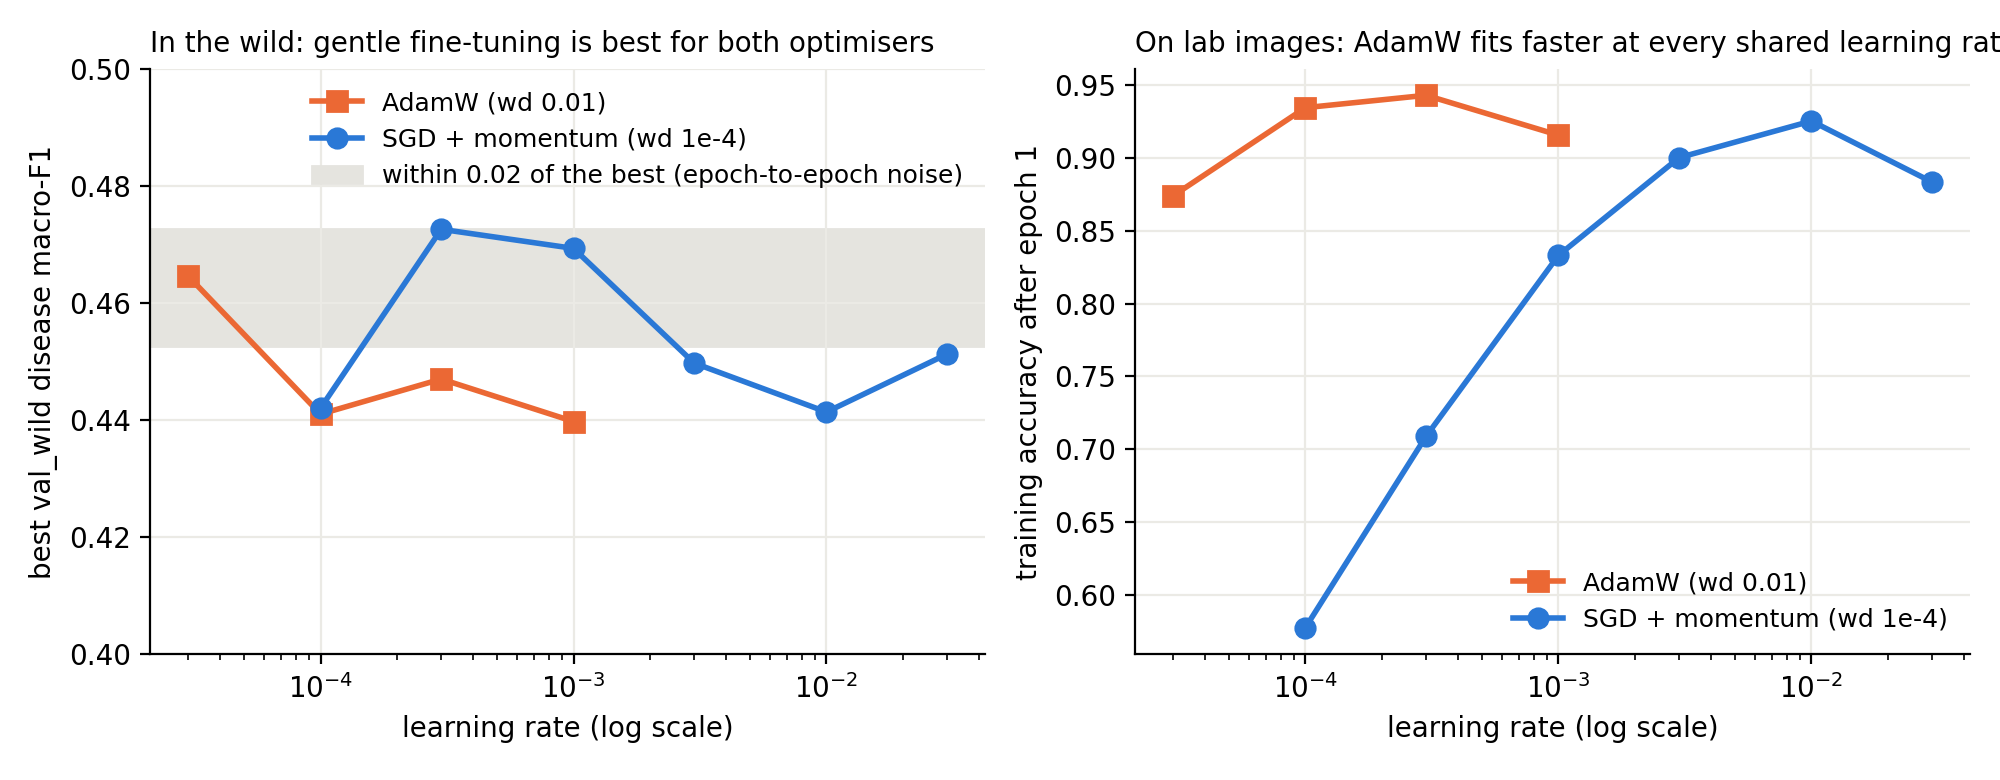
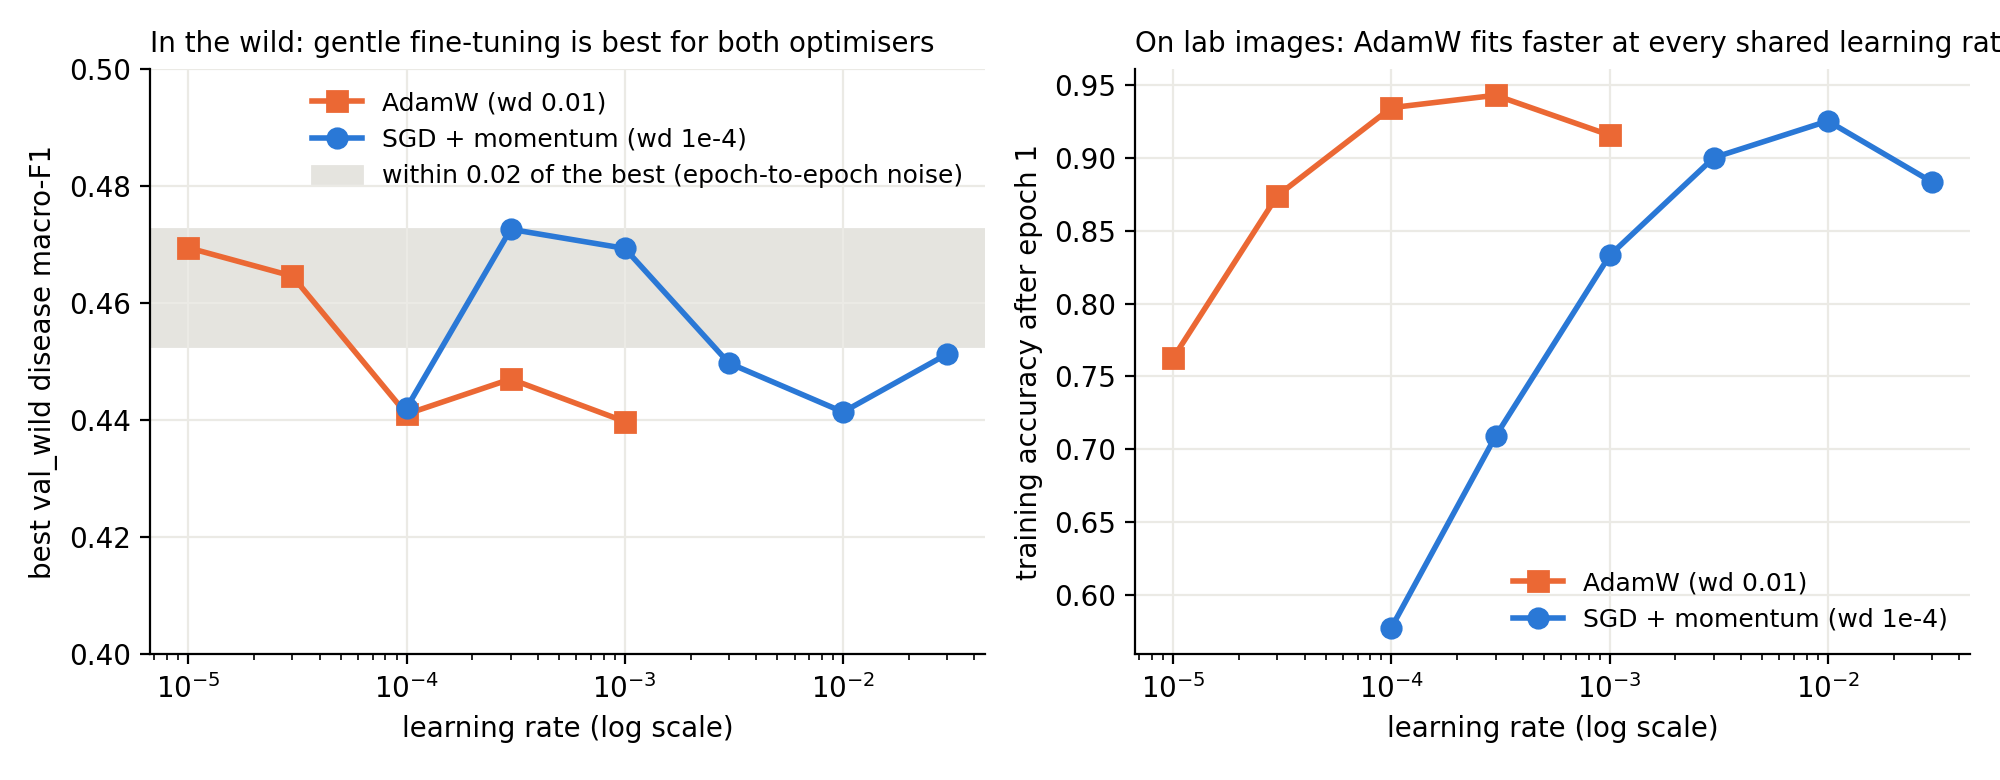
Experiment R14

diff --git a/experiment_log.md b/experiment_log.md
@@ -1,1 +1,1 @@
-<table><thead><tr><th scope="col" style="">run</th><th scope="col" style="">date</th><th scope="col" style="">model</th><th scope="col" style="">what changed</th><th scope="col" style="">key settings</th><th scope="col" style="">seed</th><th scope="col" style="">val_lab F1-16</th><th scope="col" style="">val_wild F1-16</th><th scope="col" style="">best epoch</th><th scope="col" style="">train time</th><th scope="col" style="">learned</th></tr></thead><tbody><tr><td>T0</td><td>25 Oct</td><td>R18 frozen</td><td>pipeline test</td><td>SGD lr 0.01, wd 1e-4, bs 64, no aug, 3 ep</td><td>42</td><td>0.922</td><td>0.356</td><td>–</td><td>~5 min</td><td>lab easy; wild barely above random (0.285): gap ≈ 0.57</td></tr><tr><td>R01</td><td>25 Oct</td><td>R18 frozen</td><td>initial ANN</td><td>SGD 0.01, wd 1e-4, bs 64, no aug, cosine, 15 ep / patience 5</td><td>42</td><td>0.923</td><td>0.359</td><td>3 of 8 (early stop)</td><td>~4 min</td><td>head-only saturates; lab improves, wild flat ≈ ±0.02 noise; gap 0.56</td></tr><tr><td>R02</td><td>25 Oct</td><td>ResNet-18, stem + stages 1–3 frozen (8,403,988 trainable)</td><td>unfroze stage 4 (vs R01: head only)</td><td>SGD lr 0.01 (cosine), wd 1e-4, bs 64, no aug, 15 ep / patience 5</td><td>42</td><td>0.979</td><td>0.403</td><td>10 of 15</td><td>~12.4 min</td><td>adapting the top stage helps wild (+0.04 over R01, about 2× the ±0.02 noise); train acc reached 1.000 by epoch 5</td></tr><tr><td>R03</td><td>25 Oct</td><td>ResNet-18, nothing frozen (11,186,772 trainable)</td><td>unfroze all layers (vs R02: stage 4 only)</td><td>SGD lr 0.01 (cosine), wd 1e-4, bs 64, no aug, 15 ep / patience 5</td><td>42</td><td>0.986</td><td>0.445</td><td>6 of 11 (early stop)</td><td>~16.3 min</td><td>full fine-tuning best so far (+0.04 again); train set memorised by epoch 4 (loss ≈ 0.001), wild flat at ≈ 0.44 from epoch 1 → overfitting to lab images</td></tr><tr><td>R04</td><td>25 Oct</td><td>ResNet-18, nothing frozen (11,186,772 trainable)</td><td>added augmentation (vs R03)</td><td>SGD lr 0.01 (cosine), wd 1e-4, bs 64, <strong>augment on</strong> (random crop 0.5–1, H/V flip, colour jitter 0.3, hue 0.02), 15 ep / patience 5</td><td>42</td><td>0.969</td><td>0.441</td><td>3 of 8 (early stop)</td><td>~5.5 min</td><td><strong>failed:</strong> no wild gain (−0.004, within noise); memorisation slowed (train acc 0.996 at ep 8 vs 1.000 at ep 4) but not prevented; val_wild loss rose 2.7 → 3.5 while F1 flat = overconfident on wild; augmentation can’t add busy backgrounds (Finding 1). Kept on: tie, but closer to deployment variation</td></tr><tr><td>R05</td><td>25–26 Oct</td><td>ResNet-18, full fine-tune</td><td>lr 0.01 → <strong>0.001</strong> (vs R04)</td><td>SGD (mom 0.9), wd 1e-4, bs 64, aug on, cosine, 15 ep / patience 5</td><td>42</td><td>0.958</td><td><strong>0.469</strong></td><td>4 of 9</td><td>6.1 min</td><td>best so far (+0.028); steadiest wild curve; slower lab fit → gentle fine-tuning keeps more robust features; best at grid edge → test lower</td></tr><tr><td>R06</td><td>25–26 Oct</td><td>ResNet-18, full fine-tune</td><td>lr 0.003</td><td>as R05</td><td>42</td><td>0.968</td><td>0.450</td><td>3 of 8</td><td>5.3 min</td><td>between 0.001 and 0.01, consistent trend</td></tr><tr><td>R07</td><td>25–26 Oct</td><td>ResNet-18, full fine-tune</td><td>lr 0.03</td><td>as R05</td><td>42</td><td>0.956</td><td>0.451</td><td>4 of 9</td><td>16.1 min</td><td>peak then drop to ~0.41: large steps overshoot; some epochs 170 s (laptop heat)</td></tr><tr><td>R08</td><td>25–26 Oct</td><td>ResNet-18, full fine-tune</td><td>optimiser <strong>AdamW</strong>, lr 1e-4</td><td>AdamW, wd 0.01, rest as R05</td><td>42</td><td>0.971</td><td>0.441</td><td>4 of 9</td><td>6.1 min</td><td>fastest lab fit (acc 0.935 ep 1) but no wild gain; noisy 0.40–0.44</td></tr><tr><td>R09</td><td>25–26 Oct</td><td>ResNet-18, full fine-tune</td><td>AdamW lr 3e-4</td><td>as R08</td><td>42</td><td>0.951</td><td>0.447</td><td>3 of 8</td><td>5.4 min</td><td>AdamW flat across learning rates</td></tr><tr><td>R10</td><td>25–26 Oct</td><td>ResNet-18, full fine-tune</td><td>AdamW lr 1e-3</td><td>as R08</td><td>42</td><td>0.923</td><td>0.440</td><td>2 of 7</td><td>4.8 min</td><td><strong>failed:</strong> unstable (val_lab 0.786 ep 1, 0.907 ep 4); step too large for pretrained weights</td></tr><tr><td>R11</td><td>26 Oct</td><td>ResNet-18, full fine-tune</td><td>SGD lr <strong>3e-4</strong></td><td>SGD (mom 0.9), wd 1e-4, bs 64, aug on, cosine, 15 ep / patience 5</td><td>42</td><td>0.952</td><td><strong>0.473</strong></td><td>15 of 15</td><td>~33 min (slow epochs)</td><td>best so far, ties R05 (within noise); still rising at last epoch → longer training may help</td></tr><tr><td>R12</td><td>26 Oct</td><td>ResNet-18, full fine-tune</td><td>SGD lr <strong>1e-4</strong></td><td>as R11</td><td>42</td><td>0.897</td><td>0.442</td><td>14 of 15</td><td>~44 min (slow epochs)</td><td><strong>failed (underfitting):</strong> too slow to adapt in 15 epochs (train acc 0.93, val_lab 0.90); with R10 shows the learning rate’s two failure modes</td></tr><tr><td>R13</td><td>26 Oct</td><td>ResNet-18, full fine-tune</td><td>AdamW lr <strong>3e-5</strong></td><td>AdamW, wd 0.01, rest as R11</td><td>42</td><td>0.959</td><td>0.465</td><td>2 of 7</td><td>~22 min (slow epochs)</td><td>AdamW also gains from gentler steps (0.44 → 0.465) but peaks at epoch 2 then overfits; best still at grid edge</td></tr></tbody></table>
+<table><thead><tr><th scope="col" style="">run</th><th scope="col" style="">date</th><th scope="col" style="">model</th><th scope="col" style="">what changed</th><th scope="col" style="">key settings</th><th scope="col" style="">seed</th><th scope="col" style="">val_lab F1-16</th><th scope="col" style="">val_wild F1-16</th><th scope="col" style="">best epoch</th><th scope="col" style="">train time</th><th scope="col" style="">learned</th></tr></thead><tbody><tr><td>T0</td><td>25 Oct</td><td>R18 frozen</td><td>pipeline test</td><td>SGD lr 0.01, wd 1e-4, bs 64, no aug, 3 ep</td><td>42</td><td>0.922</td><td>0.356</td><td>–</td><td>~5 min</td><td>lab easy; wild barely above random (0.285): gap ≈ 0.57</td></tr><tr><td>R01</td><td>25 Oct</td><td>R18 frozen</td><td>initial ANN</td><td>SGD 0.01, wd 1e-4, bs 64, no aug, cosine, 15 ep / patience 5</td><td>42</td><td>0.923</td><td>0.359</td><td>3 of 8 (early stop)</td><td>~4 min</td><td>head-only saturates; lab improves, wild flat ≈ ±0.02 noise; gap 0.56</td></tr><tr><td>R02</td><td>25 Oct</td><td>ResNet-18, stem + stages 1–3 frozen (8,403,988 trainable)</td><td>unfroze stage 4 (vs R01: head only)</td><td>SGD lr 0.01 (cosine), wd 1e-4, bs 64, no aug, 15 ep / patience 5</td><td>42</td><td>0.979</td><td>0.403</td><td>10 of 15</td><td>~12.4 min</td><td>adapting the top stage helps wild (+0.04 over R01, about 2× the ±0.02 noise); train acc reached 1.000 by epoch 5</td></tr><tr><td>R03</td><td>25 Oct</td><td>ResNet-18, nothing frozen (11,186,772 trainable)</td><td>unfroze all layers (vs R02: stage 4 only)</td><td>SGD lr 0.01 (cosine), wd 1e-4, bs 64, no aug, 15 ep / patience 5</td><td>42</td><td>0.986</td><td>0.445</td><td>6 of 11 (early stop)</td><td>~16.3 min</td><td>full fine-tuning best so far (+0.04 again); train set memorised by epoch 4 (loss ≈ 0.001), wild flat at ≈ 0.44 from epoch 1 → overfitting to lab images</td></tr><tr><td>R04</td><td>25 Oct</td><td>ResNet-18, nothing frozen (11,186,772 trainable)</td><td>added augmentation (vs R03)</td><td>SGD lr 0.01 (cosine), wd 1e-4, bs 64, <strong>augment on</strong> (random crop 0.5–1, H/V flip, colour jitter 0.3, hue 0.02), 15 ep / patience 5</td><td>42</td><td>0.969</td><td>0.441</td><td>3 of 8 (early stop)</td><td>~5.5 min</td><td><strong>failed:</strong> no wild gain (−0.004, within noise); memorisation slowed (train acc 0.996 at ep 8 vs 1.000 at ep 4) but not prevented; val_wild loss rose 2.7 → 3.5 while F1 flat = overconfident on wild; augmentation can’t add busy backgrounds (Finding 1). Kept on: tie, but closer to deployment variation</td></tr><tr><td>R05</td><td>25–26 Oct</td><td>ResNet-18, full fine-tune</td><td>lr 0.01 → <strong>0.001</strong> (vs R04)</td><td>SGD (mom 0.9), wd 1e-4, bs 64, aug on, cosine, 15 ep / patience 5</td><td>42</td><td>0.958</td><td><strong>0.469</strong></td><td>4 of 9</td><td>6.1 min</td><td>best so far (+0.028); steadiest wild curve; slower lab fit → gentle fine-tuning keeps more robust features; best at grid edge → test lower</td></tr><tr><td>R06</td><td>25–26 Oct</td><td>ResNet-18, full fine-tune</td><td>lr 0.003</td><td>as R05</td><td>42</td><td>0.968</td><td>0.450</td><td>3 of 8</td><td>5.3 min</td><td>between 0.001 and 0.01, consistent trend</td></tr><tr><td>R07</td><td>25–26 Oct</td><td>ResNet-18, full fine-tune</td><td>lr 0.03</td><td>as R05</td><td>42</td><td>0.956</td><td>0.451</td><td>4 of 9</td><td>16.1 min</td><td>peak then drop to ~0.41: large steps overshoot; some epochs 170 s (laptop heat)</td></tr><tr><td>R08</td><td>25–26 Oct</td><td>ResNet-18, full fine-tune</td><td>optimiser <strong>AdamW</strong>, lr 1e-4</td><td>AdamW, wd 0.01, rest as R05</td><td>42</td><td>0.971</td><td>0.441</td><td>4 of 9</td><td>6.1 min</td><td>fastest lab fit (acc 0.935 ep 1) but no wild gain; noisy 0.40–0.44</td></tr><tr><td>R09</td><td>25–26 Oct</td><td>ResNet-18, full fine-tune</td><td>AdamW lr 3e-4</td><td>as R08</td><td>42</td><td>0.951</td><td>0.447</td><td>3 of 8</td><td>5.4 min</td><td>AdamW flat across learning rates</td></tr><tr><td>R10</td><td>25–26 Oct</td><td>ResNet-18, full fine-tune</td><td>AdamW lr 1e-3</td><td>as R08</td><td>42</td><td>0.923</td><td>0.440</td><td>2 of 7</td><td>4.8 min</td><td><strong>failed:</strong> unstable (val_lab 0.786 ep 1, 0.907 ep 4); step too large for pretrained weights</td></tr><tr><td>R11</td><td>26 Oct</td><td>ResNet-18, full fine-tune</td><td>SGD lr <strong>3e-4</strong></td><td>SGD (mom 0.9), wd 1e-4, bs 64, aug on, cosine, 15 ep / patience 5</td><td>42</td><td>0.952</td><td><strong>0.473</strong></td><td>15 of 15</td><td>~33 min (slow epochs)</td><td>best so far, ties R05 (within noise); still rising at last epoch → longer training may help</td></tr><tr><td>R12</td><td>26 Oct</td><td>ResNet-18, full fine-tune</td><td>SGD lr <strong>1e-4</strong></td><td>as R11</td><td>42</td><td>0.897</td><td>0.442</td><td>14 of 15</td><td>~44 min (slow epochs)</td><td><strong>failed (underfitting):</strong> too slow to adapt in 15 epochs (train acc 0.93, val_lab 0.90); with R10 shows the learning rate’s two failure modes</td></tr><tr><td>R13</td><td>26 Oct</td><td>ResNet-18, full fine-tune</td><td>AdamW lr <strong>3e-5</strong></td><td>AdamW, wd 0.01, rest as R11</td><td>42</td><td>0.959</td><td>0.465</td><td>2 of 7</td><td>~22 min (slow epochs)</td><td>AdamW also gains from gentler steps (0.44 → 0.465) but peaks at epoch 2 then overfits; best still at grid edge</td></tr><tr><td>R14</td><td>26 Oct</td><td>ResNet-18, full fine-tune</td><td>AdamW lr <strong>1e-5</strong></td><td>AdamW, wd 0.01, bs 64, aug on, cosine, 15 ep / patience 5</td><td>42</td><td>0.969</td><td>0.469</td><td>4 of 9</td><td>~6 min</td><td>AdamW’s best ties SGD’s best (≈ 0.47); 1e-5 and 3e-5 form a plateau, so the AdamW optimum is bracketed within noise. <strong>Conclusion:</strong> gentle fine-tuning matters, not the optimiser; AdamW fits faster, SGD is steadier</td></tr></tbody></table>
